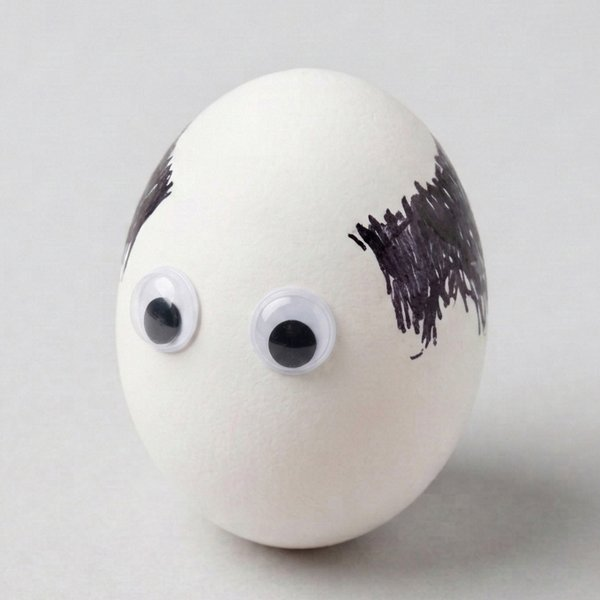
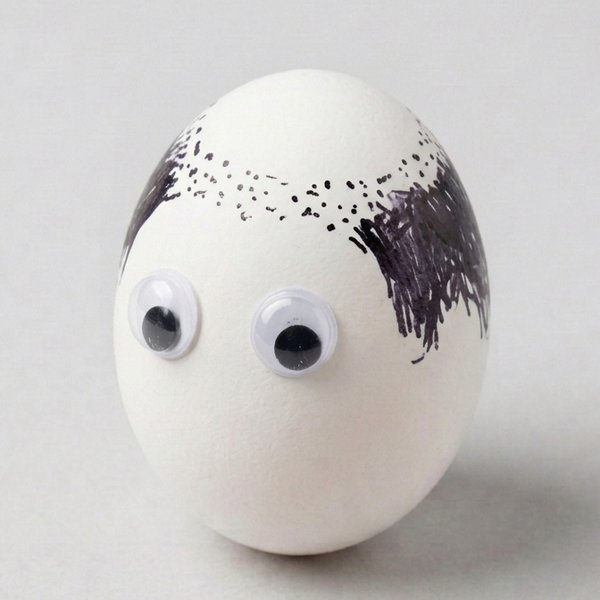
결과 화면 레벨 통계, 단계 이미지 교체, 홈 달걀 전환 속도 조정
- 결과 화면에 "N명 중 M명이 같은 레벨" 표시 (Supabase level_counts RPC)
- 3단계·5단계 달걀 이미지 교체 및 OG 이미지 재빌드
- 홈 달걀 전환 간격 2.2s → 1.6s
- apple-touch-icon, sitemap, 결과 문구 CSV 추가, 원본 image/ 폴더 제외

diff --git a/index.html b/index.html
@@ -3,16 +3,31 @@
 <head>
   <meta charset="utf-8">
   <meta name="viewport" content="width=device-width, initial-scale=1, viewport-fit=cover">
-  <title>당신은 탈모입니까? · 1분 탈모 자가 체크</title>
-  <meta name="description" content="사진 2장, 1분이면 끝. 탈모 레벨과 유형(M자형·정수리형 등)을 보여주는 재미용 탈모 자가 체크. 사진은 서버로 전송되지 않아요.">
+  <!-- seo: tools/build.mjs가 이 블록을 다시 쓴다. 직접 고치지 말고 build.mjs의 HOME 값을 바꿀 것 -->
+  <title>당신은 탈모입니까? · 1분 탈모 테스트</title>
+  <meta name="description" content="사진 2장으로 1분 만에 해보는 탈모 자가 체크 테스트. M자형·정수리형 등 탈모 유형과 5단계 레벨을 재미로 확인해 보세요. 사진은 서버로 전송되지 않아요.">
+  <meta name="robots" content="index,follow,max-image-preview:large">
+  <link rel="canonical" href="https://aaahyun.github.io/cheerupbald/">
   <meta name="theme-color" content="#EEEEEF">
+  <meta name="format-detection" content="telephone=no">
   <meta property="og:type" content="website">
+  <meta property="og:site_name" content="당신은 탈모입니까?">
+  <meta property="og:locale" content="ko_KR">
   <meta property="og:url" content="https://aaahyun.github.io/cheerupbald/">
   <meta property="og:title" content="당신은 탈모입니까?">
   <meta property="og:description" content="사진 2장, 1분이면 끝. 재미로 보는 탈모 자가 체크">
   <meta property="og:image" content="https://aaahyun.github.io/cheerupbald/assets/og/default.png">
+  <meta property="og:image:width" content="1200">
+  <meta property="og:image:height" content="630">
+  <meta property="og:image:alt" content="당신은 탈모입니까? — 사진 2장, 1분이면 끝. 다섯 단계의 달걀 캐릭터">
   <meta name="twitter:card" content="summary_large_image">
+  <meta name="twitter:title" content="당신은 탈모입니까?">
+  <meta name="twitter:description" content="사진 2장, 1분이면 끝. 재미로 보는 탈모 자가 체크">
+  <meta name="twitter:image" content="https://aaahyun.github.io/cheerupbald/assets/og/default.png">
   <link rel="icon" href="assets/favicon.svg" type="image/svg+xml">
+  <link rel="apple-touch-icon" href="assets/apple-touch-icon.png">
+  <script type="application/ld+json">{"@context":"https://schema.org","@type":"WebApplication","name":"당신은 탈모입니까?","alternateName":"1분 탈모 테스트","url":"https://aaahyun.github.io/cheerupbald/","description":"사진 2장으로 1분 만에 해보는 탈모 자가 체크 테스트. M자형·정수리형 등 탈모 유형과 5단계 레벨을 재미로 확인해 보세요. 사진은 서버로 전송되지 않아요.","inLanguage":"ko-KR","applicationCategory":"LifestyleApplication","operatingSystem":"Any","browserRequirements":"Requires JavaScript and a camera or photo upload","isAccessibleForFree":true,"offers":{"@type":"Offer","price":"0","priceCurrency":"KRW"},"image":"https://aaahyun.github.io/cheerupbald/assets/og/default.png"}</script>
+  <!-- /seo -->
   <link rel="preconnect" href="https://cdn.jsdelivr.net">
   <link rel="preload" as="image" href="assets/stages/stage-1.webp">
   <link rel="stylesheet" href="https://cdn.jsdelivr.net/gh/orioncactus/pretendard@v1.3.9/dist/web/static/pretendard-dynamic-subset.min.css">

diff --git a/js/stats.js b/js/stats.js
@@ -11,22 +11,43 @@ const AGES = new Set(['10', '20', '30', '40', '50']);
 const SUSPECTS = new Set(['y', 'n']);
 const MATCHES = new Set(['confirmed', 'early', 'relief', 'elsewhere', 'fine', 'surprise']);
 
+const rpc = (name, body) => fetch(`${STATS.url.replace(/\/$/, '')}/rest/v1/rpc/${name}`, {
+  method: 'POST',
+  headers: {
+    'Content-Type': 'application/json',
+    apikey: STATS.anonKey,
+    Authorization: `Bearer ${STATS.anonKey}`,
+  },
+  body: JSON.stringify(body),
+  credentials: 'omit',
+  keepalive: true,
+  referrerPolicy: 'no-referrer',
+});
+
+// 카운터 +1. 끝나면(성공·실패 무관) resolve 되는 Promise 를 돌려준다 — 내 기록이 들어간 뒤 통계를 읽기 위해.
 export function countResult({ level, type, gender, age, suspect, match }) {
-  if (!STATS.url || !STATS.anonKey) return;
+  if (!STATS.url || !STATS.anonKey) return Promise.resolve();
   if (!LEVELS.has(level) || !TYPES.has(type) || !GENDERS.has(gender) || !AGES.has(age)
-    || !SUSPECTS.has(suspect) || !MATCHES.has(match)) return;
+    || !SUSPECTS.has(suspect) || !MATCHES.has(match)) return Promise.resolve();
   try {
-    fetch(`${STATS.url.replace(/\/$/, '')}/rest/v1/rpc/increment_result_v2`, {
-      method: 'POST',
-      headers: {
-        'Content-Type': 'application/json',
-        apikey: STATS.anonKey,
-        Authorization: `Bearer ${STATS.anonKey}`,
-      },
-      body: JSON.stringify({ p_level: level, p_type: type, p_gender: gender, p_age: age, p_suspect: suspect, p_match: match }),
-      credentials: 'omit',
-      keepalive: true,
-      referrerPolicy: 'no-referrer',
-    }).catch(() => { /* 집계 실패가 서비스를 막지 않게 */ });
-  } catch { /* 위와 같음 */ }
+    return rpc('increment_result_v2', { p_level: level, p_type: type, p_gender: gender, p_age: age, p_suspect: suspect, p_match: match })
+      .then(() => {}, () => { /* 집계 실패가 서비스를 막지 않게 */ });
+  } catch { return Promise.resolve(); }
+}
+
+// 레벨별 누적 인원 → { total, same } 또는 실패 시 null
+export async function levelShare(level) {
+  if (!STATS.url || !STATS.anonKey || !LEVELS.has(level)) return null;
+  try {
+    const res = await rpc('level_counts', {});
+    if (!res.ok) return null;
+    const rows = await res.json();
+    let total = 0, same = 0;
+    for (const r of rows) {
+      const n = Number(r.total) || 0;
+      total += n;
+      if (Number(r.level) === level) same = n;
+    }
+    return total > 0 ? { total, same } : null;
+  } catch { return null; }
 }

diff --git a/js/app.js b/js/app.js
@@ -10,7 +10,7 @@ import { icon, hydrateIcons } from './icons.js';
 import { GUIDES } from './guides.js';
 import { shareLink, saveCard } from './share.js';
 import { track } from './track.js';
-import { countResult } from './stats.js';
+import { countResult, levelShare } from './stats.js';
 
 const $ = (sel, root = document) => root.querySelector(sel);
 const $$ = (sel, root = document) => [...root.querySelectorAll(sel)];
@@ -117,7 +117,7 @@ function initLanding() {
     s = (s % 5) + 1;
   };
   tick();
-  if (!reduceMotion()) setInterval(() => { if (current.screen === 'landing') tick(); }, 2200);
+  if (!reduceMotion()) setInterval(() => { if (current.screen === 'landing') tick(); }, 1600);
   hero.addEventListener('click', () => {
     hero.classList.remove('wobble');
     void hero.offsetWidth; // 애니메이션 재시작
@@ -522,6 +522,7 @@ function renderResult() {
         <ul class="type-chips">${typeChips.map((t) => `<li>${t}</li>`).join('')}</ul>
         <p class="tone">${st.tone}</p>
         ${norwood ? `<p class="scale-ref">노우드-해밀턴 기준으로는 대략 ${norwood}형에 가까워요 (참고)</p>` : ''}
+        <p class="peer-stat" id="peerStat" hidden></p>
       </div>
     </header>
     ${expectBanner(st)}
@@ -550,15 +551,24 @@ function renderResult() {
   const root = $('#resultBody .result');
   revealResult(root, s);
   observeIn(root);
+  let counted = Promise.resolve();
   if (!state.result.counted) {
     // 결과 화면 진입 시 1회 (뒤로·앞으로 가기로 다시 그려도 다시 세지 않는다)
     state.result.counted = true;
-    countResult({
+    counted = countResult({
       level: s, type: judged.rep, gender: state.info.gender, age: state.info.age,
       suspect: needsConcern() ? 'y' : 'n', match: state.result.expect.match,
     });
     track('result_view', { stage: s, type: judged.rep, variant: state.variant, match: state.result.expect.match });
   }
+  // 내 기록이 반영된 뒤 읽는다. 실패하면 문구를 아예 띄우지 않는다.
+  counted.then(() => levelShare(s)).then((share) => {
+    const el = $('#peerStat', root);
+    if (!share || !el || !root.isConnected) return;
+    const pct = Math.round((share.same / share.total) * 100);
+    el.innerHTML = `지금까지 테스트한 <b>${share.total.toLocaleString()}명</b> 중 <b>${share.same.toLocaleString()}명(${pct}%)</b>이 나와 같은 레벨 ${s}${[1, 3].includes(s) ? '이에요' : '예요'}`;
+    el.hidden = false;
+  });
 }
 
 function debugText() {

diff --git a/result/2/index.html b/result/2/index.html
@@ -5,16 +5,26 @@
   <meta name="viewport" content="width=device-width, initial-scale=1, viewport-fit=cover">
   <title>나는 레벨 2 「살짝 주의」 · 당신은 탈모입니까?</title>
   <meta name="description" content="관자놀이가 슬슬 눈치 보는 중 — 사진 2장, 1분이면 끝. 나도 탈모 테스트 해보기">
+  <meta name="robots" content="noindex,follow">
+  <link rel="canonical" href="https://aaahyun.github.io/cheerupbald/result/2/">
+  <meta name="theme-color" content="#EEEEEF">
+  <meta name="format-detection" content="telephone=no">
   <meta property="og:type" content="website">
+  <meta property="og:site_name" content="당신은 탈모입니까?">
+  <meta property="og:locale" content="ko_KR">
   <meta property="og:url" content="https://aaahyun.github.io/cheerupbald/result/2/">
   <meta property="og:title" content="나는 레벨 2 「살짝 주의」 · 당신은 탈모입니까?">
   <meta property="og:description" content="관자놀이가 슬슬 눈치 보는 중 · 나도 1분 탈모 테스트 해보기">
   <meta property="og:image" content="https://aaahyun.github.io/cheerupbald/assets/og/stage-2.png">
   <meta property="og:image:width" content="1200">
   <meta property="og:image:height" content="630">
+  <meta property="og:image:alt" content="탈모 테스트 결과 레벨 2 「살짝 주의」 — 관자놀이가 슬슬 눈치 보는 중">
   <meta name="twitter:card" content="summary_large_image">
-  <meta name="theme-color" content="#EEEEEF">
+  <meta name="twitter:title" content="나는 레벨 2 「살짝 주의」 · 당신은 탈모입니까?">
+  <meta name="twitter:description" content="관자놀이가 슬슬 눈치 보는 중 · 나도 1분 탈모 테스트 해보기">
+  <meta name="twitter:image" content="https://aaahyun.github.io/cheerupbald/assets/og/stage-2.png">
   <link rel="icon" href="../../assets/favicon.svg" type="image/svg+xml">
+  <link rel="apple-touch-icon" href="../../assets/apple-touch-icon.png">
   <link rel="stylesheet" href="https://cdn.jsdelivr.net/gh/orioncactus/pretendard@v1.3.9/dist/web/static/pretendard-dynamic-subset.min.css">
   <link rel="stylesheet" href="../../css/style.css">
 </head>

diff --git a/result/3/index.html b/result/3/index.html
@@ -5,16 +5,26 @@
   <meta name="viewport" content="width=device-width, initial-scale=1, viewport-fit=cover">
   <title>나는 레벨 3 「진행 시작」 · 당신은 탈모입니까?</title>
   <meta name="description" content="지금 관리하면 지킬 수 있어요 — 사진 2장, 1분이면 끝. 나도 탈모 테스트 해보기">
+  <meta name="robots" content="noindex,follow">
+  <link rel="canonical" href="https://aaahyun.github.io/cheerupbald/result/3/">
+  <meta name="theme-color" content="#EEEEEF">
+  <meta name="format-detection" content="telephone=no">
   <meta property="og:type" content="website">
+  <meta property="og:site_name" content="당신은 탈모입니까?">
+  <meta property="og:locale" content="ko_KR">
   <meta property="og:url" content="https://aaahyun.github.io/cheerupbald/result/3/">
   <meta property="og:title" content="나는 레벨 3 「진행 시작」 · 당신은 탈모입니까?">
   <meta property="og:description" content="지금 관리하면 지킬 수 있어요 · 나도 1분 탈모 테스트 해보기">
   <meta property="og:image" content="https://aaahyun.github.io/cheerupbald/assets/og/stage-3.png">
   <meta property="og:image:width" content="1200">
   <meta property="og:image:height" content="630">
+  <meta property="og:image:alt" content="탈모 테스트 결과 레벨 3 「진행 시작」 — 지금 관리하면 지킬 수 있어요">
   <meta name="twitter:card" content="summary_large_image">
-  <meta name="theme-color" content="#EEEEEF">
+  <meta name="twitter:title" content="나는 레벨 3 「진행 시작」 · 당신은 탈모입니까?">
+  <meta name="twitter:description" content="지금 관리하면 지킬 수 있어요 · 나도 1분 탈모 테스트 해보기">
+  <meta name="twitter:image" content="https://aaahyun.github.io/cheerupbald/assets/og/stage-3.png">
   <link rel="icon" href="../../assets/favicon.svg" type="image/svg+xml">
+  <link rel="apple-touch-icon" href="../../assets/apple-touch-icon.png">
   <link rel="stylesheet" href="https://cdn.jsdelivr.net/gh/orioncactus/pretendard@v1.3.9/dist/web/static/pretendard-dynamic-subset.min.css">
   <link rel="stylesheet" href="../../css/style.css">
 </head>

diff --git a/result/4/index.html b/result/4/index.html
@@ -5,16 +5,26 @@
   <meta name="viewport" content="width=device-width, initial-scale=1, viewport-fit=cover">
   <title>나는 레벨 4 「진행 중」 · 당신은 탈모입니까?</title>
   <meta name="description" content="전문가와 이야기할 타이밍 — 사진 2장, 1분이면 끝. 나도 탈모 테스트 해보기">
+  <meta name="robots" content="noindex,follow">
+  <link rel="canonical" href="https://aaahyun.github.io/cheerupbald/result/4/">
+  <meta name="theme-color" content="#EEEEEF">
+  <meta name="format-detection" content="telephone=no">
   <meta property="og:type" content="website">
+  <meta property="og:site_name" content="당신은 탈모입니까?">
+  <meta property="og:locale" content="ko_KR">
   <meta property="og:url" content="https://aaahyun.github.io/cheerupbald/result/4/">
   <meta property="og:title" content="나는 레벨 4 「진행 중」 · 당신은 탈모입니까?">
   <meta property="og:description" content="전문가와 이야기할 타이밍 · 나도 1분 탈모 테스트 해보기">
   <meta property="og:image" content="https://aaahyun.github.io/cheerupbald/assets/og/stage-4.png">
   <meta property="og:image:width" content="1200">
   <meta property="og:image:height" content="630">
+  <meta property="og:image:alt" content="탈모 테스트 결과 레벨 4 「진행 중」 — 전문가와 이야기할 타이밍">
   <meta name="twitter:card" content="summary_large_image">
-  <meta name="theme-color" content="#EEEEEF">
+  <meta name="twitter:title" content="나는 레벨 4 「진행 중」 · 당신은 탈모입니까?">
+  <meta name="twitter:description" content="전문가와 이야기할 타이밍 · 나도 1분 탈모 테스트 해보기">
+  <meta name="twitter:image" content="https://aaahyun.github.io/cheerupbald/assets/og/stage-4.png">
   <link rel="icon" href="../../assets/favicon.svg" type="image/svg+xml">
+  <link rel="apple-touch-icon" href="../../assets/apple-touch-icon.png">
   <link rel="stylesheet" href="https://cdn.jsdelivr.net/gh/orioncactus/pretendard@v1.3.9/dist/web/static/pretendard-dynamic-subset.min.css">
   <link rel="stylesheet" href="../../css/style.css">
 </head>

diff --git a/result/5/index.html b/result/5/index.html
@@ -5,16 +5,26 @@
   <meta name="viewport" content="width=device-width, initial-scale=1, viewport-fit=cover">
   <title>나는 레벨 5 「많이 진행」 · 당신은 탈모입니까?</title>
   <meta name="description" content="당당함이 경쟁력 — 사진 2장, 1분이면 끝. 나도 탈모 테스트 해보기">
+  <meta name="robots" content="noindex,follow">
+  <link rel="canonical" href="https://aaahyun.github.io/cheerupbald/result/5/">
+  <meta name="theme-color" content="#EEEEEF">
+  <meta name="format-detection" content="telephone=no">
   <meta property="og:type" content="website">
+  <meta property="og:site_name" content="당신은 탈모입니까?">
+  <meta property="og:locale" content="ko_KR">
   <meta property="og:url" content="https://aaahyun.github.io/cheerupbald/result/5/">
   <meta property="og:title" content="나는 레벨 5 「많이 진행」 · 당신은 탈모입니까?">
   <meta property="og:description" content="당당함이 경쟁력 · 나도 1분 탈모 테스트 해보기">
   <meta property="og:image" content="https://aaahyun.github.io/cheerupbald/assets/og/stage-5.png">
   <meta property="og:image:width" content="1200">
   <meta property="og:image:height" content="630">
+  <meta property="og:image:alt" content="탈모 테스트 결과 레벨 5 「많이 진행」 — 당당함이 경쟁력">
   <meta name="twitter:card" content="summary_large_image">
-  <meta name="theme-color" content="#EEEEEF">
+  <meta name="twitter:title" content="나는 레벨 5 「많이 진행」 · 당신은 탈모입니까?">
+  <meta name="twitter:description" content="당당함이 경쟁력 · 나도 1분 탈모 테스트 해보기">
+  <meta name="twitter:image" content="https://aaahyun.github.io/cheerupbald/assets/og/stage-5.png">
   <link rel="icon" href="../../assets/favicon.svg" type="image/svg+xml">
+  <link rel="apple-touch-icon" href="../../assets/apple-touch-icon.png">
   <link rel="stylesheet" href="https://cdn.jsdelivr.net/gh/orioncactus/pretendard@v1.3.9/dist/web/static/pretendard-dynamic-subset.min.css">
   <link rel="stylesheet" href="../../css/style.css">
 </head>

diff --git a/result/1/index.html b/result/1/index.html
@@ -5,16 +5,26 @@
   <meta name="viewport" content="width=device-width, initial-scale=1, viewport-fit=cover">
   <title>나는 레벨 1 「풍성」 · 당신은 탈모입니까?</title>
   <meta name="description" content="걱정 넣어두세요 — 사진 2장, 1분이면 끝. 나도 탈모 테스트 해보기">
+  <meta name="robots" content="noindex,follow">
+  <link rel="canonical" href="https://aaahyun.github.io/cheerupbald/result/1/">
+  <meta name="theme-color" content="#EEEEEF">
+  <meta name="format-detection" content="telephone=no">
   <meta property="og:type" content="website">
+  <meta property="og:site_name" content="당신은 탈모입니까?">
+  <meta property="og:locale" content="ko_KR">
   <meta property="og:url" content="https://aaahyun.github.io/cheerupbald/result/1/">
   <meta property="og:title" content="나는 레벨 1 「풍성」 · 당신은 탈모입니까?">
   <meta property="og:description" content="걱정 넣어두세요 · 나도 1분 탈모 테스트 해보기">
   <meta property="og:image" content="https://aaahyun.github.io/cheerupbald/assets/og/stage-1.png">
   <meta property="og:image:width" content="1200">
   <meta property="og:image:height" content="630">
+  <meta property="og:image:alt" content="탈모 테스트 결과 레벨 1 「풍성」 — 걱정 넣어두세요">
   <meta name="twitter:card" content="summary_large_image">
-  <meta name="theme-color" content="#EEEEEF">
+  <meta name="twitter:title" content="나는 레벨 1 「풍성」 · 당신은 탈모입니까?">
+  <meta name="twitter:description" content="걱정 넣어두세요 · 나도 1분 탈모 테스트 해보기">
+  <meta name="twitter:image" content="https://aaahyun.github.io/cheerupbald/assets/og/stage-1.png">
   <link rel="icon" href="../../assets/favicon.svg" type="image/svg+xml">
+  <link rel="apple-touch-icon" href="../../assets/apple-touch-icon.png">
   <link rel="stylesheet" href="https://cdn.jsdelivr.net/gh/orioncactus/pretendard@v1.3.9/dist/web/static/pretendard-dynamic-subset.min.css">
   <link rel="stylesheet" href="../../css/style.css">
 </head>

diff --git a/css/style.css b/css/style.css
@@ -324,6 +324,8 @@ html.vt .screen { animation: none; }
 .type-chips li + li { background: transparent; color: var(--ink); box-shadow: inset 0 0 0 1.5px var(--ink); }
 .tone { font-size: 18px; color: var(--ink-2); font-weight: 600; margin: 0; letter-spacing: -0.02em; }
 .scale-ref { font-size: 12px; color: var(--ink-3); margin: 8px 0 0; }
+.peer-stat { font-size: 13px; color: var(--ink-2); margin: 10px 0 0; animation: enter .4s var(--ease-out); }
+.peer-stat b { color: var(--ink); font-weight: 700; }
 
 /* 리빌 전 상태 */
 .result.pre .big-egg img { opacity: 0; transform: translateY(-60px) scale(.9); }

diff --git a/result/index.html b/result/index.html
@@ -1,5 +1,6 @@
 <!doctype html>
 <html lang="ko"><head><meta charset="utf-8"><title>당신은 탈모입니까?</title>
+<meta name="robots" content="noindex,follow">
 <script>
   var s = new URLSearchParams(location.search).get('stage');
   location.replace(/^[1-5]$/.test(s || '') ? './' + s + '/' : '../');
